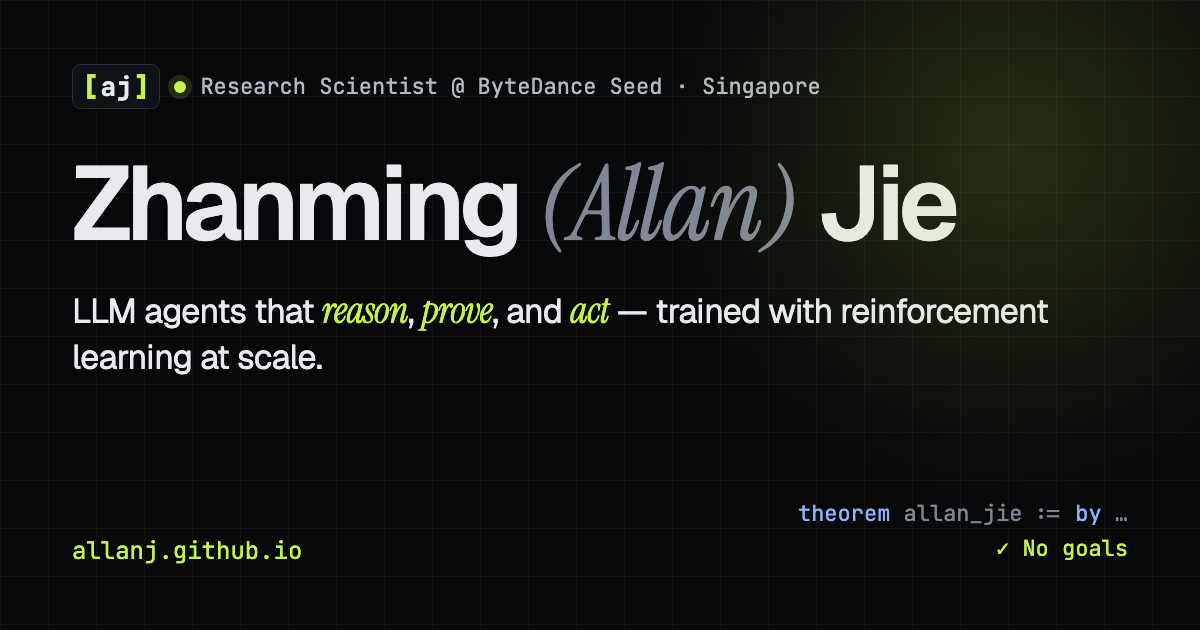
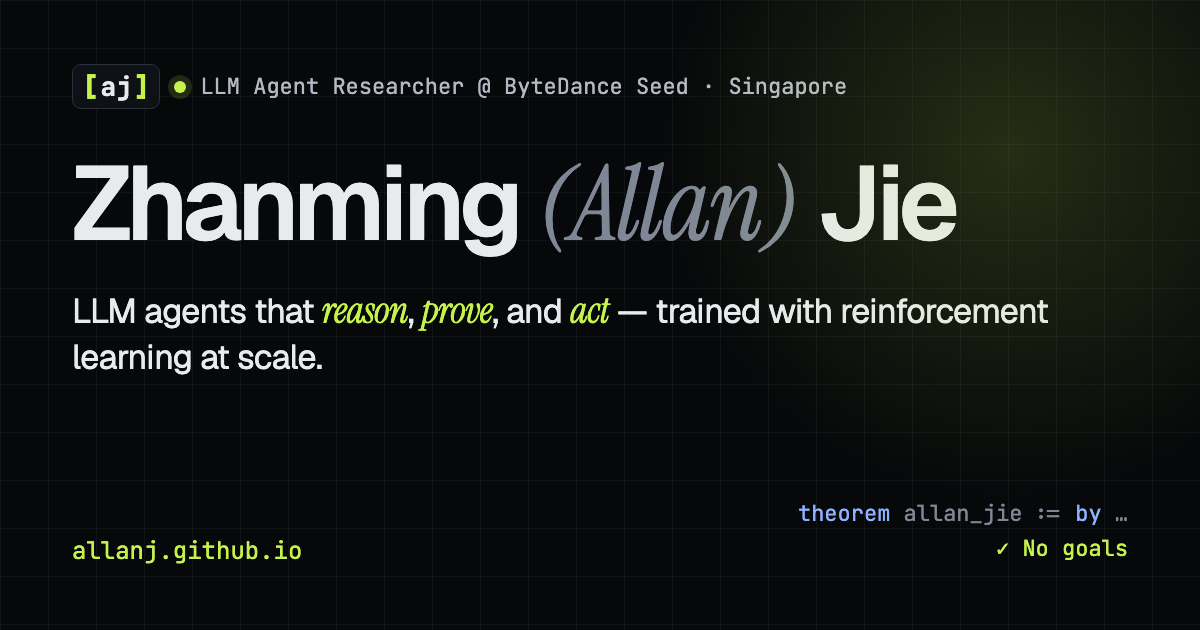
Update role, focus and content per feedback
- Title is now LLM Agent Researcher; current focus is LLM agents for science
  (materials, biology), previously financial agents and Lean 4 proving
- Add the Seed2.1 model card (financial-agent and Lean 4 proving contributions)
  as a paper, highlight and news item
- Research focus trimmed to agentic RL, formal theorem proving and reasoning
- Stop featuring ThinK; drop citation / h-index / paper-count stats
- Email is allan.jie@bytedance.com; Prof. Wei Lu links to his NTU profile
- Portrait shown in full colour; remove the footer tools column
- Regenerate the social preview card

Changed region(s): [[0.1542, 0.1206, 0.7092, 0.1508]]

diff --git a/src/data/site.ts b/src/data/site.ts
@@ -6,14 +6,14 @@ export const site = {
   name: 'Zhanming (Allan) Jie',
   shortName: 'Allan Jie',
   handle: 'allanj',
-  role: 'Research Scientist',
+  role: 'LLM Agent Researcher',
   org: 'ByteDance Seed',
   orgUrl: 'https://seed.bytedance.com/',
   location: 'Singapore',
   timezone: 'Asia/Singapore',
-  email: 'allan@bytedance.com',
+  email: 'allan.jie@bytedance.com',
   description:
-    'Zhanming (Allan) Jie — Research Scientist at ByteDance Seed, Singapore. LLM agents, reinforcement learning, reasoning, and formal theorem proving (Seed-Prover).',
+    'Zhanming (Allan) Jie — LLM Agent Researcher at ByteDance Seed, Singapore. LLM agents for science, agentic reinforcement learning, reasoning, and formal theorem proving.',
   googleSiteVerification: '0m9D6GMo20UdxGfmrDgOAUSyYILfAz7Aejakz9Wswaw',
 };
 
@@ -38,8 +38,8 @@ export const interests = [
     key: 'agentic-rl',
     title: 'Agentic RL',
     blurb:
-      'Training LLM agents with reinforcement learning over long horizons — credit assignment, reward design, and learning from experience.',
-    tags: ['long-horizon RL', 'reward design', 'experience'],
+      'Training LLM agents with reinforcement learning over long horizons — now for science (materials, biology), previously for finance. Credit assignment, reward design, and learning from experience.',
+    tags: ['agents for science', 'long-horizon RL', 'reward design'],
   },
   {
     key: 'formal-math',
@@ -55,22 +55,7 @@ export const interests = [
       'From deductive math-word-problem solvers to reinforced fine-tuning (ReFT): making multi-step reasoning more reliable and more explainable.',
     tags: ['chain-of-thought', 'ReFT', 'math'],
   },
-  {
-    key: 'efficiency',
-    title: 'Efficient inference',
-    blurb:
-      'Cheaper long-context serving, e.g. query-driven pruning of the KV cache (ThinK).',
-    tags: ['KV cache', 'long context'],
-  },
 ];
-
-// Google Scholar snapshot — update occasionally.
-export const metrics = {
-  citations: 1697,
-  hIndex: 17,
-  i10: 20,
-  asOf: 'Sep 2026',
-};
 
 export type Role = {
   period: string;
@@ -85,12 +70,12 @@ export type Role = {
 export const experience: Role[] = [
   {
     period: '2025 — now',
-    title: 'Research Scientist',
+    title: 'LLM Agent Researcher',
     org: 'ByteDance Seed',
     orgUrl: 'https://seed.bytedance.com/en/',
     place: 'Singapore',
     summary:
-      'LLM agents and reinforcement learning. Core contributor to Seed-Prover — Lean 4 theorem-proving agents trained with large-scale agentic RL (IMO 2025 silver-level score; 88% of PutnamBench).',
+      'Building LLM agents for science — materials, biology and beyond. Previously built financial agents and worked on formal theorem proving as a core contributor to Seed-Prover (IMO 2025 silver-level score; 88% of PutnamBench); contributed financial-agent and Lean 4 proving capabilities to Seed2.1.',
     head: true,
   },
   {
@@ -99,7 +84,7 @@ export const experience: Role[] = [
     org: 'Salesforce AI Research',
     orgUrl: 'https://www.salesforceairesearch.com/',
     place: 'Singapore',
-    summary: 'Efficient long-context inference for LLMs — ThinK, query-driven KV-cache pruning (ICLR 2025 Spotlight).',
+    summary: 'Efficient long-context inference and reasoning for large language models.',
   },
   {
     period: '2020 — 2024',
@@ -144,6 +129,11 @@ export type NewsItem = { date: string; html: string; tag?: 'paper' | 'release' |
 // Newest first. `date` is YYYY-MM, or YYYY when the month isn't public.
 export const news: NewsItem[] = [
   {
+    date: '2026',
+    tag: 'career',
+    html: 'Now building <b>LLM agents for science</b> — materials, biology and beyond — at ByteDance Seed.',
+  },
+  {
     date: '2026-07',
     tag: 'paper',
     html: '<em>Measure Twice, Locate Once</em> — mitigating hallucinations in LLM agents for repository-scale fault localization — published in <b>ACM TOSEM</b>.',
@@ -151,7 +141,7 @@ export const news: NewsItem[] = [
   {
     date: '2026-06',
     tag: 'release',
-    html: 'The <a href="https://arxiv.org/abs/2607.00248">Seed2.0 Model Card</a> is out; I’m one of the contributors.',
+    html: '<a href="https://seed.bytedance.com/en/seed2_1">Seed2.1</a> is released — I contributed its <b>financial-agent</b> and <b>Lean 4 proving</b> capabilities. The <a href="https://arxiv.org/abs/2607.00248">Seed2.0 Model Card</a> also landed on arXiv.',
   },
   {
     date: '2025-12',
@@ -164,11 +154,6 @@ export const news: NewsItem[] = [
     html: 'Seed-Prover takes part in <b>IMO 2025</b>: an IMO-certified <b>30/42</b>, silver-medal level. Papers: <a href="https://arxiv.org/abs/2507.23726">Seed-Prover</a> and <a href="https://arxiv.org/abs/2507.15225">Delta Prover</a>.',
   },
   { date: '2025', tag: 'career', html: 'Joined <b>ByteDance Seed</b> in Singapore to work on LLM agents and reinforcement learning.' },
-  {
-    date: '2025-04',
-    tag: 'paper',
-    html: '<a href="https://openreview.net/forum?id=n0OtGl6VGb">ThinK</a> (query-driven KV-cache pruning) is a <b>Spotlight</b> at ICLR 2025 in Singapore.',
-  },
   {
     date: '2024-08',
     tag: 'paper',
@@ -203,11 +188,25 @@ export type Highlight = {
   kicker: string;
   title: string;
   blurb: string;
-  stats: { value: string; label: string }[];
+  stats?: { value: string; label: string }[];
+  /** shown instead of stats when there are no headline numbers */
+  tags?: string[];
   links: { label: string; href: string }[];
 };
 
 export const highlights: Highlight[] = [
+  {
+    id: 'seed-2.1',
+    kicker: 'ByteDance Seed · 2026',
+    title: 'Seed2.1',
+    blurb:
+      'ByteDance’s flagship model family for agentic productivity, in Pro and Turbo sizes. I contributed to its financial-agent and Lean 4 theorem-proving capabilities.',
+    tags: ['financial agents', 'Lean 4 proving', 'agentic productivity'],
+    links: [
+      { label: 'model card', href: 'https://lf3-static.bytednsdoc.com/obj/eden-cn/lapzild-tss/ljhwZthlaukjlkulzlp/seed2.1/Seed2_1_Model_Card.pdf' },
+      { label: 'blog', href: 'https://seed.bytedance.com/en/blog/seed2-1-officially-released-advancing-ai-productivity' },
+    ],
+  },
   {
     id: 'seed-prover-1.5',
     kicker: 'ByteDance Seed · 2025',
@@ -243,28 +242,13 @@ export const highlights: Highlight[] = [
     ],
   },
   {
-    id: 'think',
-    kicker: 'Salesforce AI Research · ICLR 2025',
-    title: 'ThinK',
-    blurb:
-      'The KV cache is redundant along the channel dimension too. ThinK prunes the least important key channels per query, cutting long-context memory while keeping accuracy.',
-    stats: [
-      { value: '>20%', label: 'KV-cache memory saved' },
-      { value: 'Spotlight', label: 'ICLR 2025' },
-    ],
-    links: [
-      { label: 'paper', href: 'https://openreview.net/forum?id=n0OtGl6VGb' },
-      { label: 'code', href: 'https://github.com/SalesforceAIResearch/ThinK' },
-    ],
-  },
-  {
     id: 'reft',
     kicker: 'ByteDance Research · ACL 2024',
     title: 'ReFT',
     blurb:
       'Reinforced fine-tuning: warm up with SFT, then run PPO over many sampled chain-of-thought paths, rewarded by answer correctness — generalising better than SFT alone on math reasoning.',
     stats: [
-      { value: '400+', label: 'citations' },
+      { value: 'SFT → RL', label: 'two-stage recipe' },
       { value: 'ACL', label: '2024 main' },
     ],
     links: [

diff --git a/src/data/publications.ts b/src/data/publications.ts
@@ -40,6 +40,22 @@ export type Paper = {
 
 export const papers: Paper[] = [
   {
+    id: 'seed2026seed21',
+    title: 'Seed2.1 Model Card: Agentic Intelligence for Productivity',
+    authors: ['ByteDance Seed'],
+    authorNote: 'Team report · I contributed the financial-agent and Lean 4 proving capabilities',
+    venue: 'Tech report 2026',
+    venueFull: 'ByteDance Seed technical report',
+    year: 2026,
+    type: 'report',
+    topics: ['agents-rl', 'theorem-proving'],
+    links: {
+      pdf: 'https://lf3-static.bytednsdoc.com/obj/eden-cn/lapzild-tss/ljhwZthlaukjlkulzlp/seed2.1/Seed2_1_Model_Card.pdf',
+      project: 'https://seed.bytedance.com/en/seed2_1',
+    },
+    featured: true,
+  },
+  {
     id: 'chen2026measure',
     title: 'Measure Twice, Locate Once: Mitigating Hallucinations in LLM-based Agents for Repository-Scale Fault Localization',
     authors: ['Feiyue Chen', 'Guowei Yang', 'Cheryl Lee', 'Zhanming Jie', 'Yuqi Chen'],
@@ -112,7 +128,6 @@ export const papers: Paper[] = [
     topics: ['efficiency'],
     links: { paper: 'https://openreview.net/forum?id=n0OtGl6VGb', arxiv: 'https://arxiv.org/abs/2407.21018', code: 'https://github.com/SalesforceAIResearch/ThinK' },
     award: 'Spotlight',
-    featured: true,
   },
   {
     id: 'luong2024reft',
